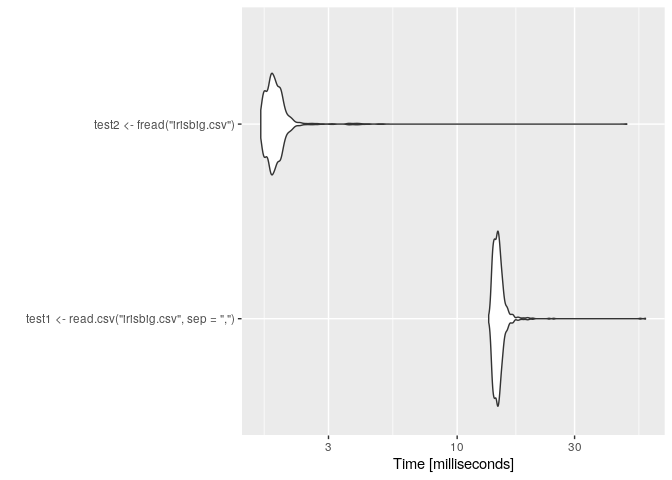
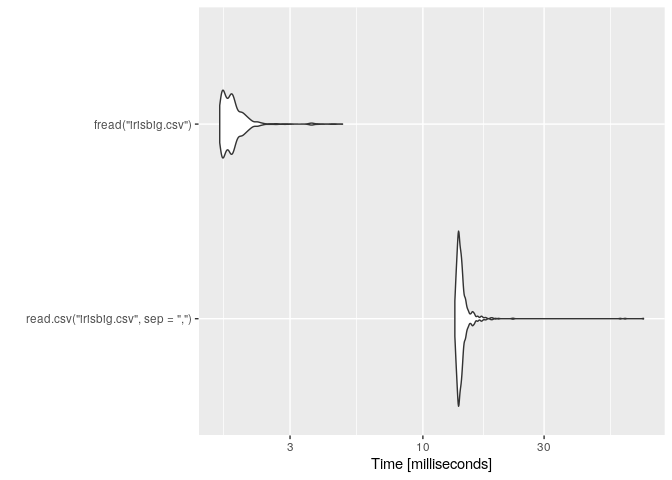
simplify names in benchmarking

diff --git a/codes/benchmarking.md b/codes/benchmarking.md
@@ -32,14 +32,14 @@ fwrite(iris, file="irisbig.csv", sep=",")
 
 # Lecture du fichier, répétée 1000 fois. 
 benchmark(replications=1000,
-          test1 <- read.csv("irisbig.csv", sep=","),
-          test2 <- fread("irisbig.csv"),
+          read.csv("irisbig.csv", sep=","),
+          fread("irisbig.csv"),
           columns=c('test', 'elapsed', 'replications'))
 ```
 
-    ##                                          test elapsed replications
-    ## 1 test1 <- read.csv("irisbig.csv", sep = ",")  13.981         1000
-    ## 2               test2 <- fread("irisbig.csv")   1.964         1000
+    ##                                 test elapsed replications
+    ## 2               fread("irisbig.csv")   1.980         1000
+    ## 1 read.csv("irisbig.csv", sep = ",")  14.069         1000
 
 Le test2, utilisant la fonction `fread` du package `data.table` est bien
 plus rapide.
@@ -50,23 +50,34 @@ l’avantage d’avoir une belle visualisation avec ggplot2 :
 ``` r
 library(microbenchmark)
 library(ggplot2)
+rm(test1)
+```
 
+    ## Warning in rm(test1): objet 'test1' introuvable
+
+``` r
+rm(test2)
+```
+
+    ## Warning in rm(test2): objet 'test2' introuvable
+
+``` r
 # Lecture du fichier, répétée 1000 fois. 
 mb <- microbenchmark(
-          test1 <- read.csv("irisbig.csv", sep=","),
-          test2 <- fread("irisbig.csv"),
+          read.csv("irisbig.csv", sep=","),
+          fread("irisbig.csv"),
           times=1000)
 
 mb
 ```
 
     ## Unit: milliseconds
-    ##                                         expr       min        lq      mean
-    ##  test1 <- read.csv("irisbig.csv", sep = ",") 13.431326 14.167680 14.801448
-    ##                test2 <- fread("irisbig.csv")  1.591833  1.720852  1.898354
-    ##    median        uq      max neval cld
-    ##  14.57999 14.991125 58.23019  1000   b
-    ##   1.79959  1.905103 48.87562  1000  a
+    ##                                expr       min        lq      mean    median
+    ##  read.csv("irisbig.csv", sep = ",") 13.361997 13.754532 14.385080 13.999627
+    ##                fread("irisbig.csv")  1.586168  1.650656  1.818022  1.755421
+    ##         uq       max neval cld
+    ##  14.356337 73.857086  1000   b
+    ##   1.858666  4.827518  1000  a
 
 ``` r
 autoplot(mb)
